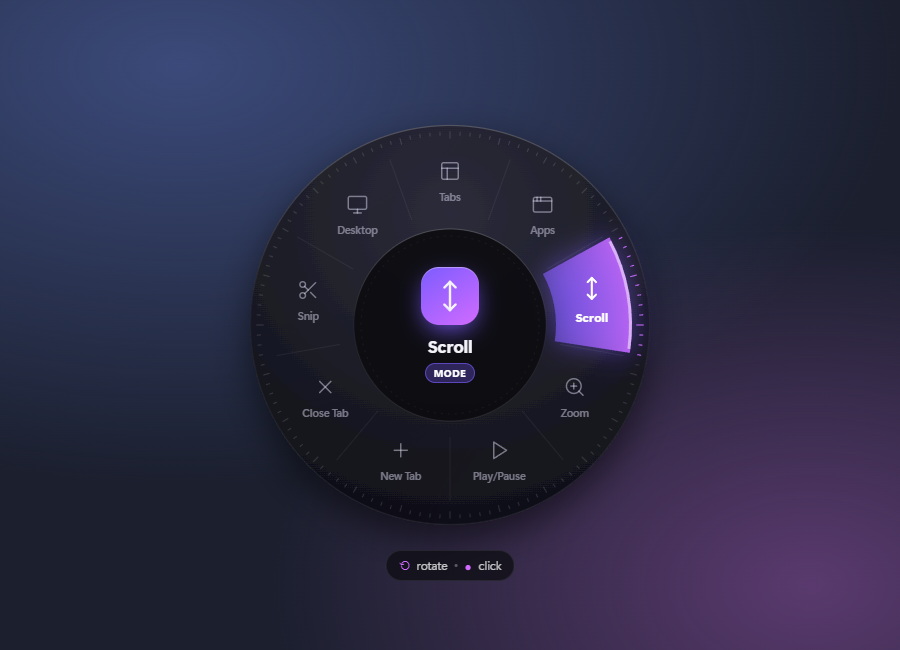
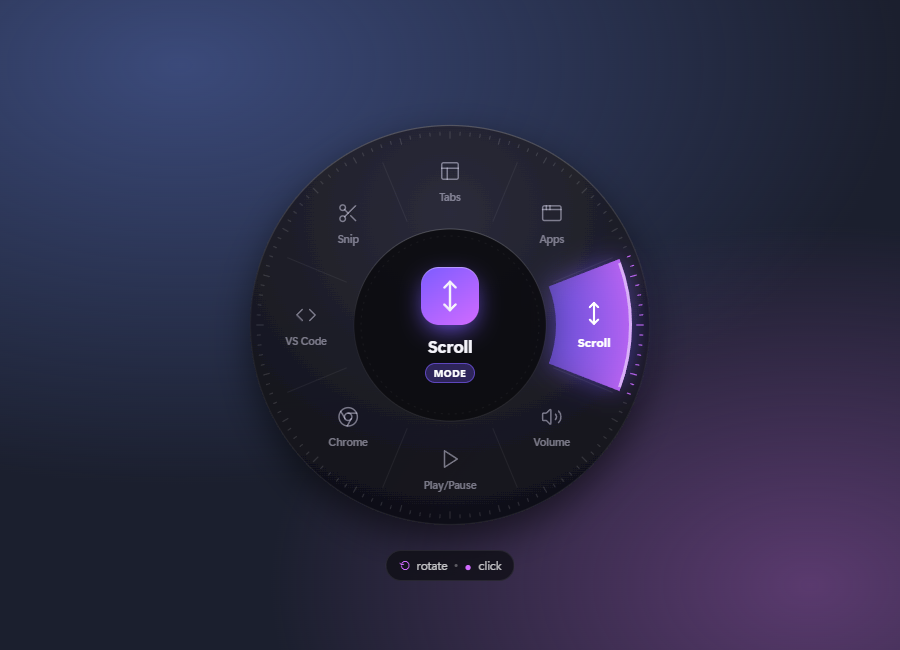
Update dial shortcuts and add volume mode

diff --git a/README.md b/README.md
@@ -18,7 +18,8 @@ The smaller indicator while Scroll mode is active:
 - Click the knob while the orb is open to run the selected action or enter a mode.
 - In a mode, rotate to use that control; click again to exit.
 - The orb closes after six seconds without input. Rotation opens it again.
-- While the app is running, the knob never mutes or changes system volume. Windows sees the knob as volume keys, so volume keys on other keyboards are also captured.
+- Normal knob clicks and rotation do not mute or change volume. Select **Volume** and click to enter Volume mode; then rotate right to raise volume or left to lower it. Click again to exit.
+- Windows sees the knob as volume keys, so volume keys on other keyboards are also captured while the app runs.
 - Without a knob, use ← / → or Enter to open the orb. Then use ← / → to move, Enter to select, and Esc to close.
 
 ## Run
@@ -31,8 +32,8 @@ The smaller indicator while Scroll mode is active:
 ## Customise — `orbit.config.json`
 - `icon`: any name from lucide.dev/icons in PascalCase (e.g. `Github`, `Music`)
 - `type: "keys"` + `keys: "ctrl+shift+t"`
-- `type: "open"` + `target: "https://youtube.com"` or `"notepad"` or `"C:\\Projects"`
-- `type: "mode"` + `mode: "tabs" | "apps" | "scroll" | "zoom" | "media"`
+- `type: "open"` + `target: "chrome"`, `"code"`, `"https://youtube.com"`, `"notepad"`, or `"C:\\Projects"`
+- `type: "mode"` + `mode: "tabs" | "apps" | "scroll" | "volume" | "zoom" | "media"`
 - `accent`: two colours for the gradient
 
 After editing, tray → *Reload items*.
